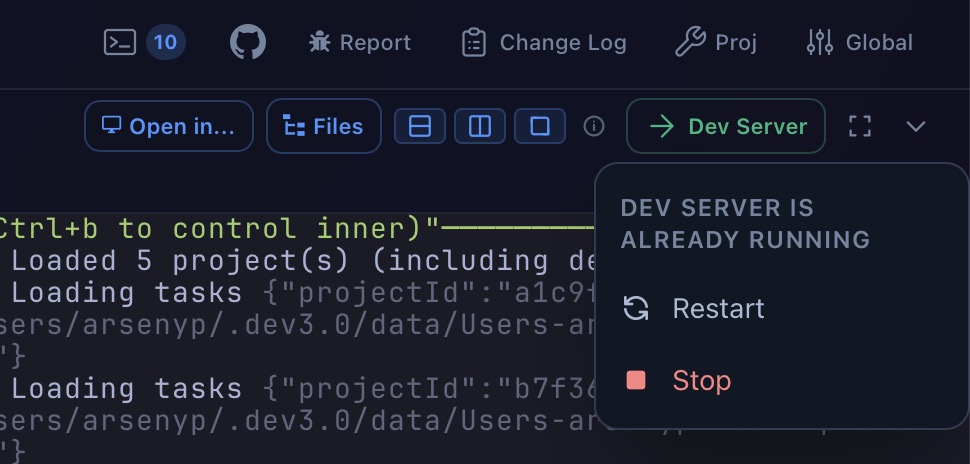
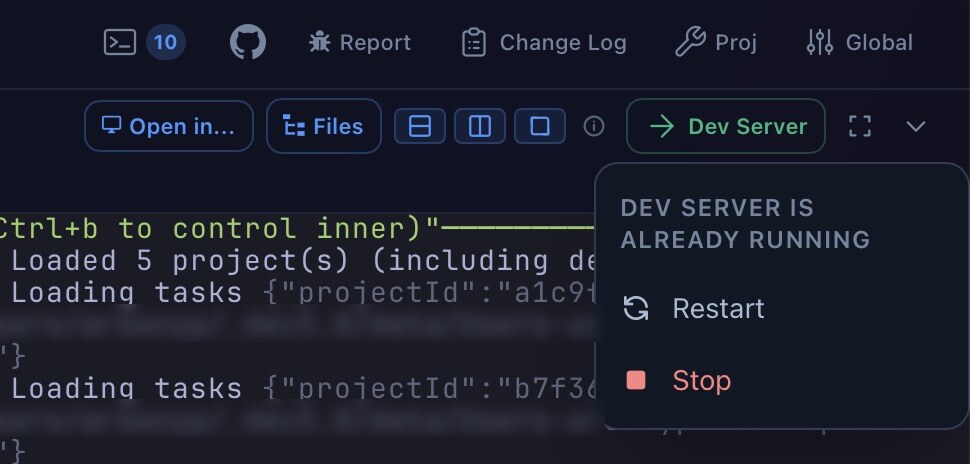
Blur the developer home path in the dev-server screenshot

Changed region(s): [[0.0, 0.875, 0.6186, 0.9353], [0.0, 0.6638, 0.6186, 0.7241]]

diff --git a/change-logs/2026/08/21/docs-spaces-readme-landing.md b/change-logs/2026/08/21/docs-spaces-readme-landing.md
@@ -1,1 +1,1 @@
-Spaces now appear outside the changelog: the README gains a short "Spaces, when one flat list of projects stops working" subsection in the "What else is in there" block, and the landing page gains one feature card mid-grid. Both say the same three things — projects group into spaces, a project can sit in several at once, nothing moves on disk and every project keeps its own board — over two new screenshots shot against a throwaway demo state so nothing real is on screen.
+Spaces now appear outside the changelog: the README gains a short "Spaces, when one flat list of projects stops working" subsection in the "What else is in there" block, and the landing page gains one feature card mid-grid. Both say the same three things — projects group into spaces, a project can sit in several at once, nothing moves on disk and every project keeps its own board — over two new screenshots shot against a throwaway demo state so nothing real is on screen. The existing `dev-server.jpg` on the landing page also stopped showing the developer's home path: the two log lines behind the Dev Server dropdown are blurred in place, at the same dimensions, so the page needs no edit.
